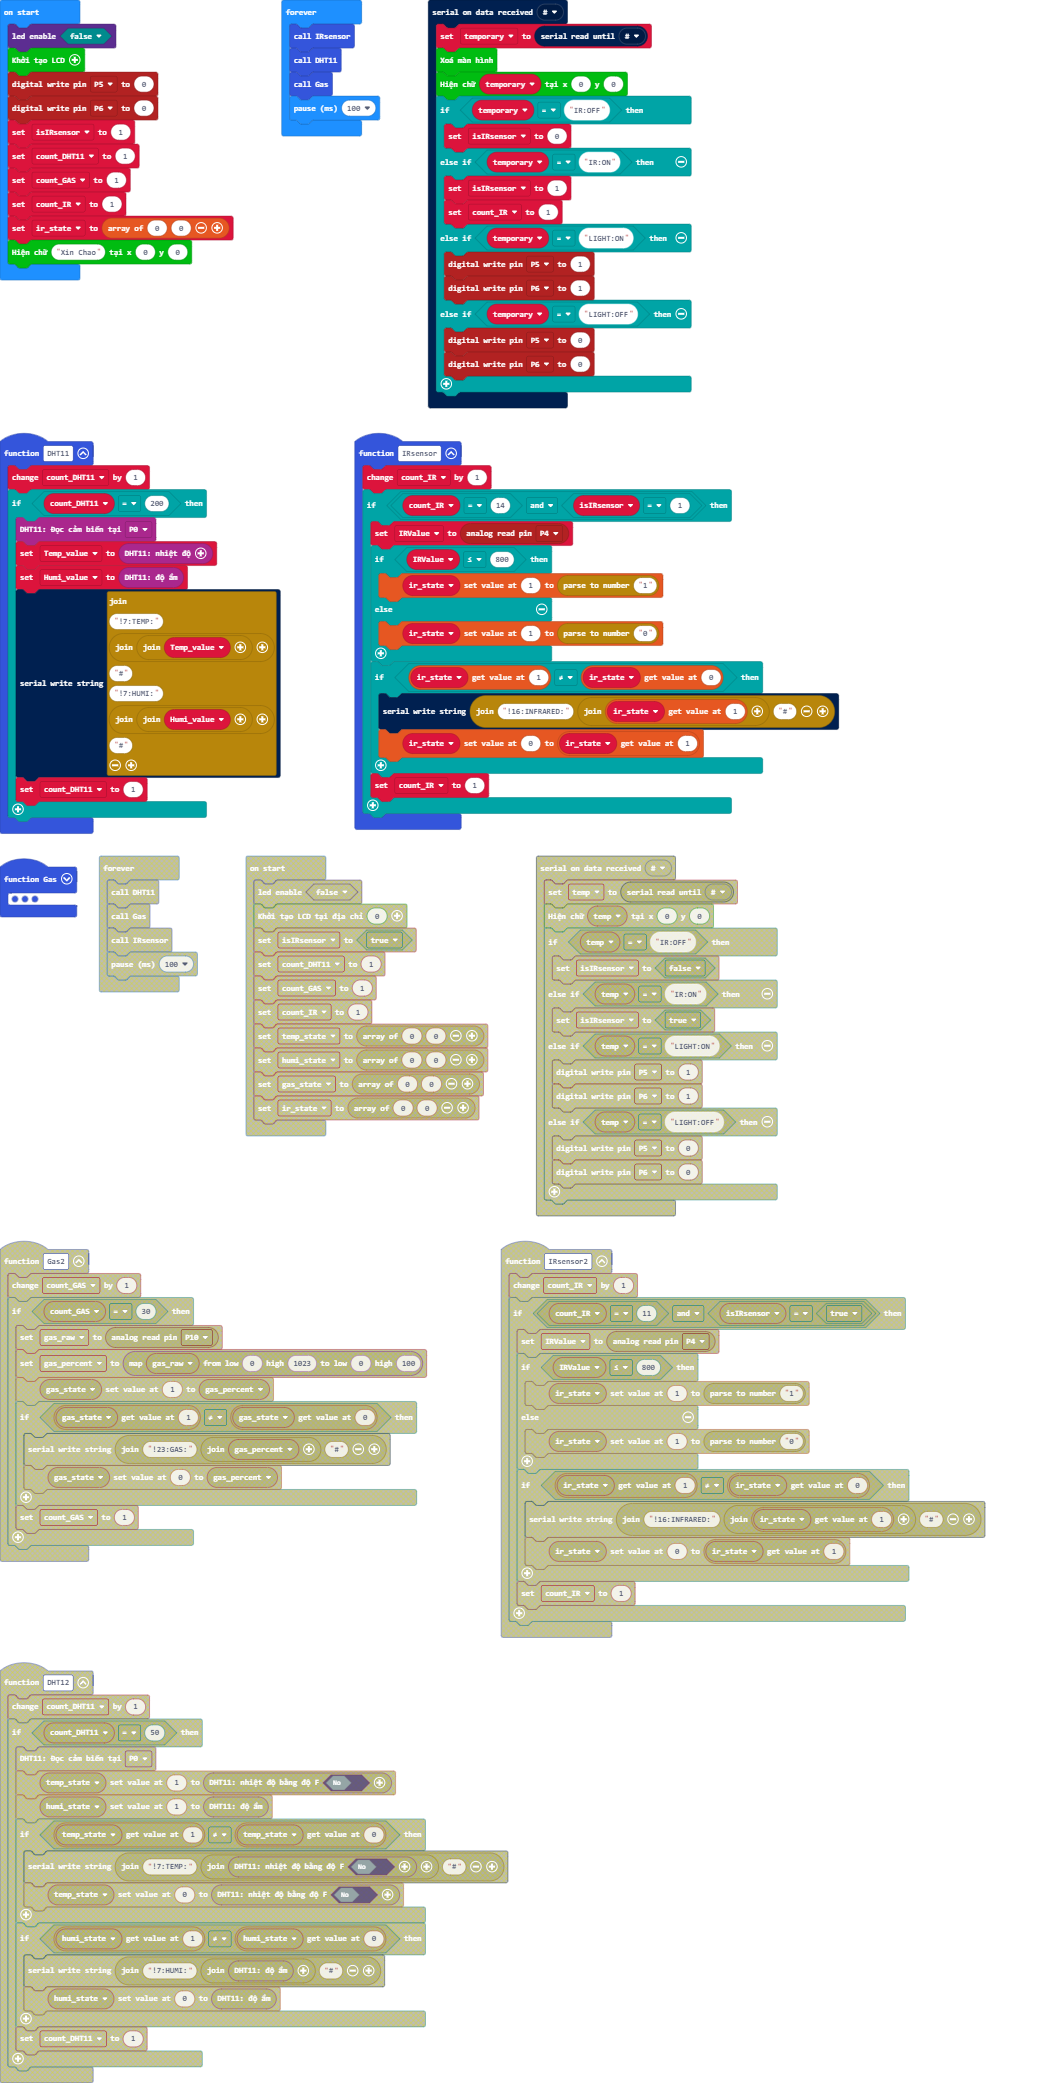
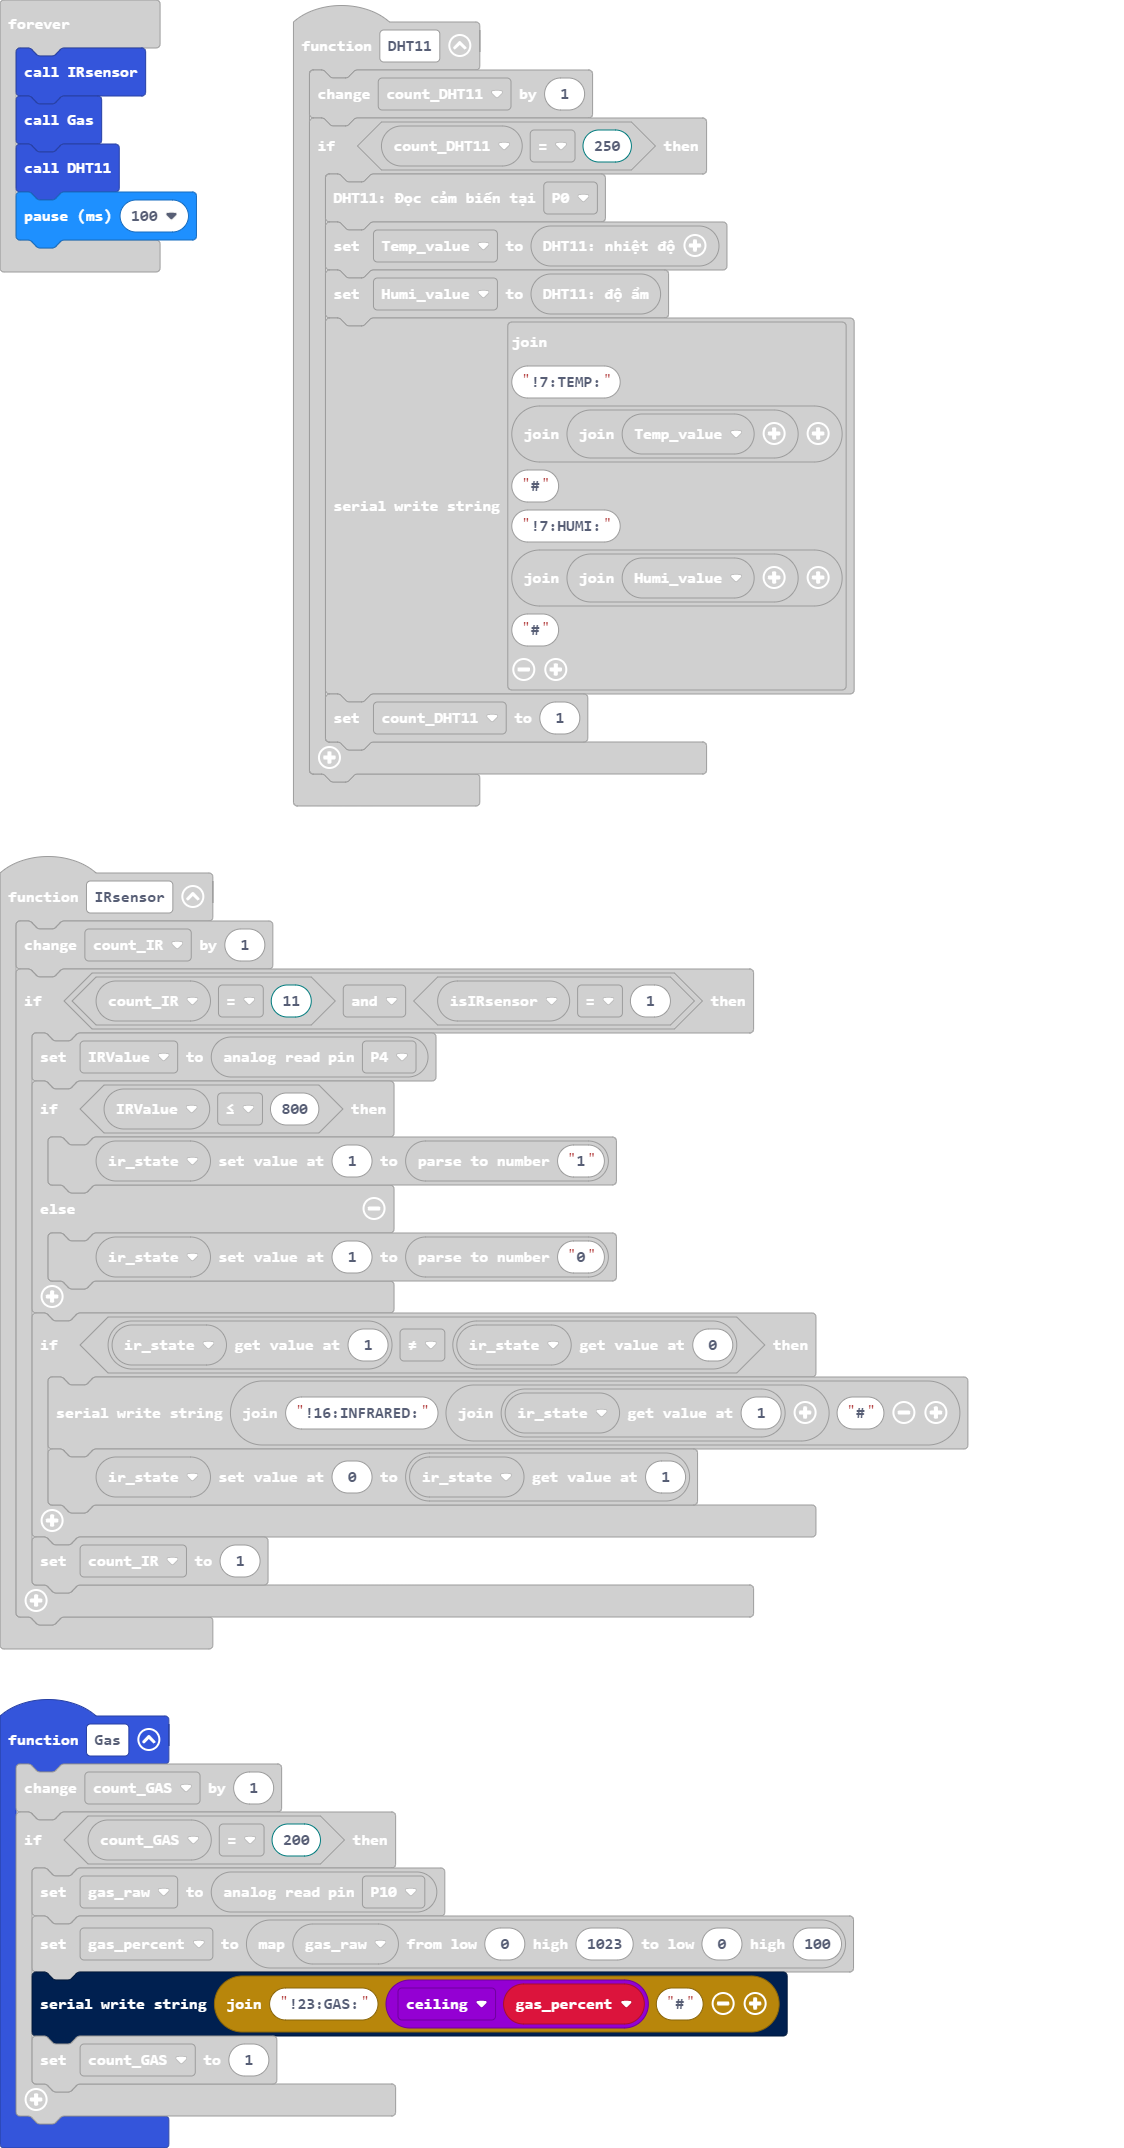
Update main.blocks, main.ts

diff --git a/main.ts b/main.ts
@@ -1,6 +1,6 @@
 function DHT11 () {
     count_DHT11 += 1
-    if (count_DHT11 == 200) {
+    if (count_DHT11 == 250) {
         NPNBitKit.DHT11Read(DigitalPin.P0)
         Temp_value = NPNBitKit.DHT11Temp()
         Humi_value = NPNBitKit.DHT11Hum()
@@ -10,7 +10,7 @@ function DHT11 () {
 }
 function IRsensor () {
     count_IR += 1
-    if (count_IR == 14 && isIRsensor == 1) {
+    if (count_IR == 11 && isIRsensor == 1) {
         IRValue = pins.analogReadPin(AnalogPin.P4)
         if (IRValue <= 800) {
             ir_state[1] = parseFloat("1")
@@ -26,10 +26,10 @@ function IRsensor () {
 }
 function Gas () {
     count_GAS += 1
-    if (count_GAS == 150) {
+    if (count_GAS == 200) {
         gas_raw = pins.analogReadPin(AnalogPin.P10)
         gas_percent = Math.map(gas_raw, 0, 1023, 0, 100)
-        serial.writeString("!23:GAS:" + ("" + gas_percent) + "#")
+        serial.writeString("!23:GAS:" + Math.ceil(gas_percent) + "#")
         count_GAS = 1
     }
 }
@@ -73,7 +73,7 @@ ir_state = [0, 0]
 NPNLCD.ShowString("Xin Chao", 0, 0)
 basic.forever(function () {
     IRsensor()
-    DHT11()
     Gas()
+    DHT11()
     basic.pause(100)
 })
